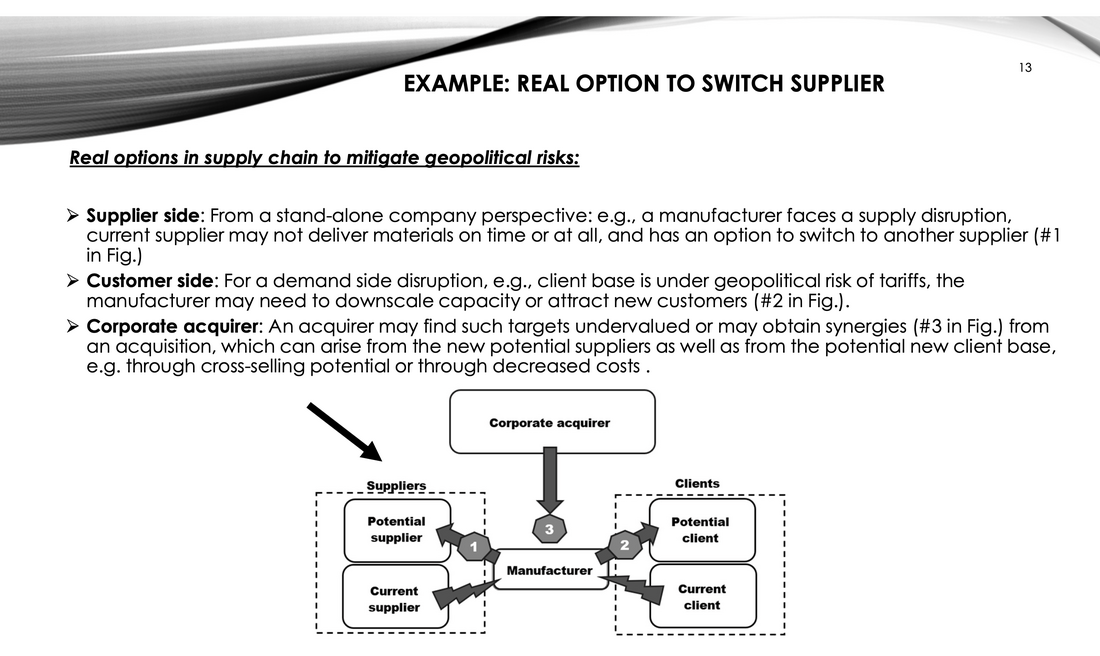
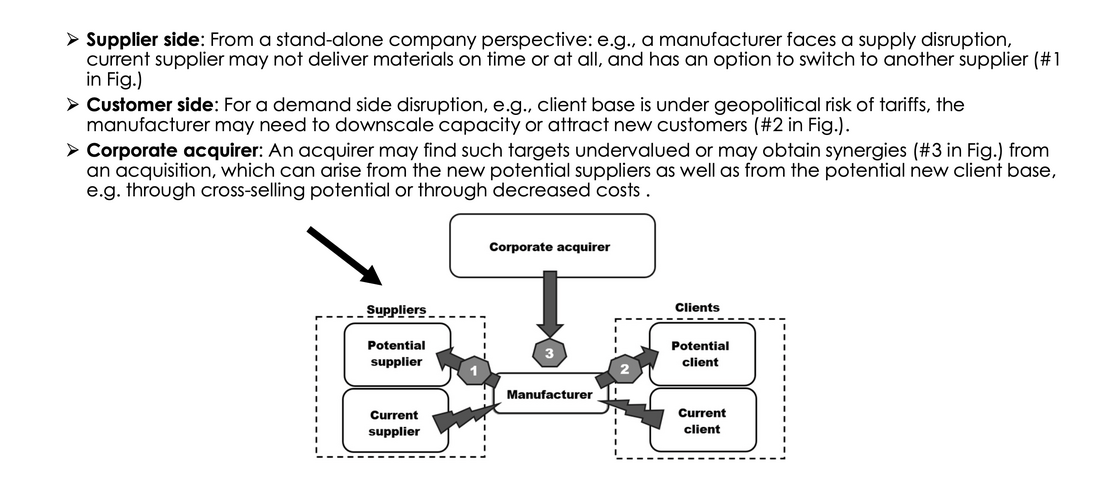
critic round: slide figure cropped, mobile hero leads with words, social card rebuilt
Fresh-eyes review of the live composition drove four fixes. The
fuzzy-real-options article figure was a raw slide export (deck template
ribbon, source page number 13 visible); cropped to the content so it
reads as a research figure, dims and alt updated. The mobile hero
carried an order:-1 that put the globe above the H1, leaving the first
phone viewport wordless; removed, verified by screenshot that the
headline, dek and CTAs now fill the first screen. The research-partners
list appeared twice on home (proof strip and network section); the
network copy drops. The workspace screenshot caption now carries the
same contents-illustrative marker its sibling Morning Brief already
had. og-image rebuilt at 1200x630 from the site's own fonts and tokens
(the old square card was cropped badly by link previews).

Build self-checks green: 26 html files, 22 sitemap urls, 0 broken refs.

Changed region(s): [[0.0, 0.0, 1.0, 0.9717]]

diff --git a/site/index.html b/site/index.html
@@ -254,7 +254,7 @@
           <div class="chrome" aria-hidden="true"><i></i><i></i><i></i><span class="url">app.missiongrey.com</span></div>
           <div class="win-body"><img src="../assets/product-screenshot-sessions.png" width="1920" height="1149" loading="lazy" alt="The Mission Grey workspace: a session list, an analyst conversation refining a risk scenario, and a generated report with numbered, verifiable sources"></div>
         </div>
-        <figcaption class="win-cap">The workspace &middot; monitored sessions, the analyst conversation, and the generated report with its sources</figcaption>
+        <figcaption class="win-cap">The workspace &middot; monitored sessions, the analyst conversation, and the generated report with its sources &middot; contents illustrative</figcaption>
       </figure>
     </div>
   </section>
@@ -352,7 +352,6 @@
           <div class="chips" aria-label="Guild domains">
             <span class="chip">Geopolitics</span><span class="chip">Finance</span><span class="chip">Regulation</span><span class="chip">Security</span><span class="chip">Operations</span><span class="chip">Technology</span><span class="chip">Strategy</span>
           </div>
-          <p class="net-partners"><b>Research partners</b><br>Cambridge Judge Business School &middot; Aalto University &middot; Tampere University</p>
         </div>
       </div>
     </div>

diff --git a/site/insights/how-fuzzy-real-options-help-companies-navigate-geopolitical-risks/index.html b/site/insights/how-fuzzy-real-options-help-companies-navigate-geopolitical-risks/index.html
@@ -141,7 +141,7 @@
       </div>
 
       <figure class="art-cover reveal">
-        <div class="mat"><img src="../../../assets/articles/how-fuzzy-real-options-help-companies-navigate-geopolitical-risks.png" width="1100" height="656" alt="A research slide headed Example: real option to switch supplier, with a diagram linking a manufacturer to current and potential suppliers, current and potential clients, and a corporate acquirer."></div>
+        <div class="mat"><img src="../../../assets/articles/how-fuzzy-real-options-help-companies-navigate-geopolitical-risks.png" width="1100" height="494" alt="A research figure on real options to switch supplier: a diagram linking a manufacturer to current and potential suppliers, current and potential clients, and a corporate acquirer."></div>
         <figcaption class="art-cap"><span class="checker" aria-hidden="true"></span>From the research &middot; the option to switch supplier</figcaption>
       </figure>
 

diff --git a/site/styles.css b/site/styles.css
@@ -589,8 +589,7 @@ html:not(.js) .globe-scene::before{
 }
 .globe-cap::before{content:"";width:6px;height:6px;border-radius:50%;background:var(--signal);animation:blink 2.4s ease-in-out infinite;flex:none}
 @media (max-width:980px){
-  /* world before words: the globe leads the stacked hero */
-  .globe-scene{order:-1;margin-inline:calc(-1 * var(--pad))}
+  .globe-scene{margin-inline:calc(-1 * var(--pad))}
   .globe-scene canvas{aspect-ratio:1/.96}
   html:not(.js) .globe-scene noscript img{width:100%;aspect-ratio:1/.92;object-fit:cover;object-position:52% 42%}
   /* no-JS overlay hugs the image box; the caption sits below it in flow */
